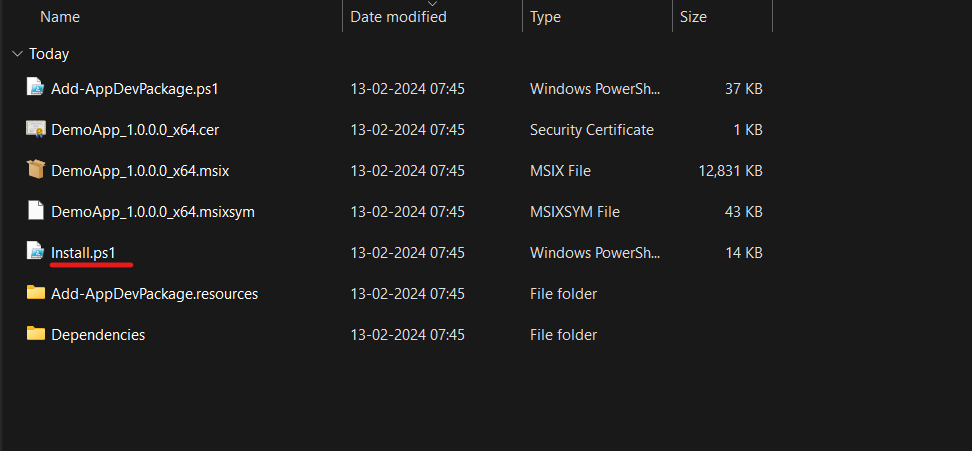
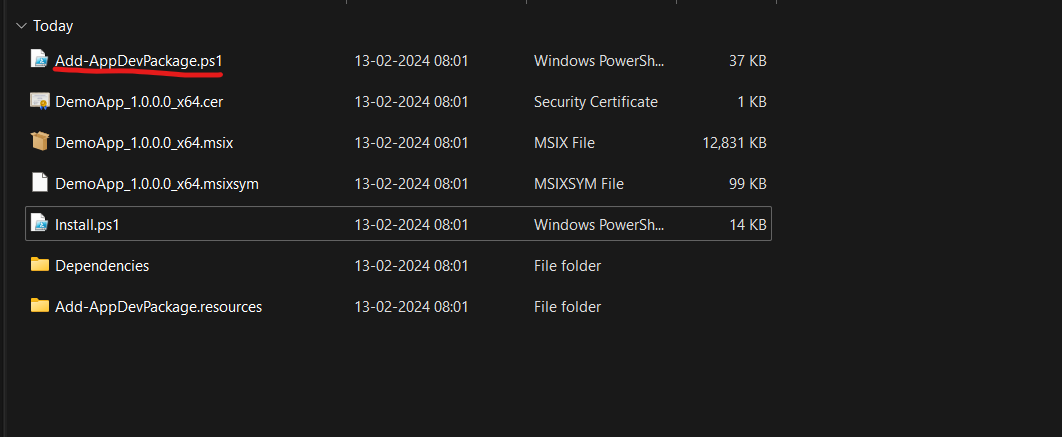
feat: Base project setup

diff --git a/README.md b/README.md
@@ -2,6 +2,8 @@
 
 Base WinUi App Setup.
 
+![Demo](Assets/demo.png)
+
 ## Setup Repository
 
 You need to add a secret to your github repository to get the workflow actions up and working. Follow the given steps to do so:
@@ -62,7 +64,9 @@ Once the artifact is downloaded, extract the contents of the zip file.
 
 ![Install](Assets/install.png)
 
-Right click on the `install.ps1` file and click `Run with PowerShell`. This will install the app on your local machine. Grant the necessary permissions to the app when prompted.
+Right click on the `Add-AppDevPackage.ps1` file and click `Run with PowerShell`. Grant the necessary permissions and the app will be installed on your local machine.
+
+![Run](Assets/run.png)
 
 > [!NOTE]
 > This process may require you to enable `Developer Mode` on your machine. You can enable `Developer Mode` by going to `Settings` > `Update & Security` > `For developers` and then selecting `Developer mode`. 
